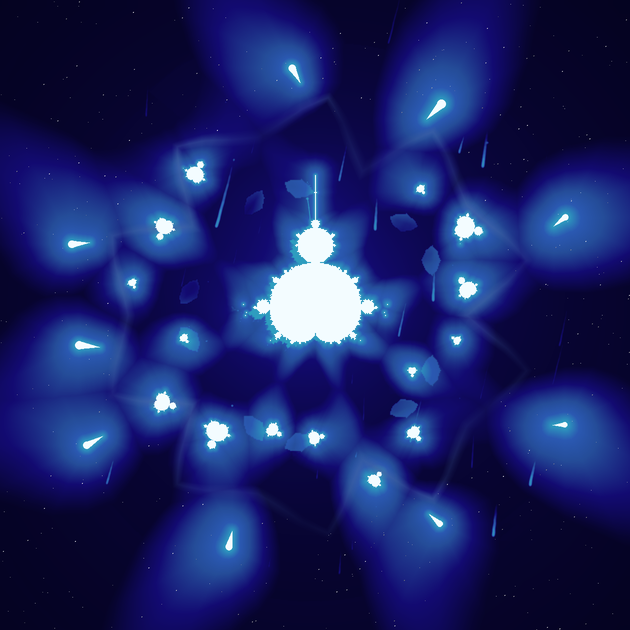
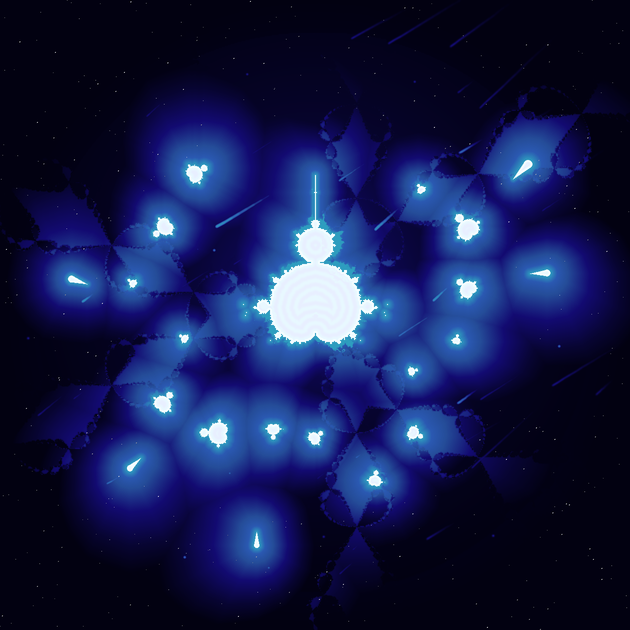
Fractal fill inside the bodies
Mother and babies usually carry a very dark (or very bright) contour-band or
texture pattern inside, kept within the decoder's body range and behind a
flat rim at every edge. Decoder fills enclosed holes in the body mask and
adds back the sub-pixel threshold shrink before classifying size.

diff --git a/hidden_in_plain_sight/encoder.py b/hidden_in_plain_sight/encoder.py
@@ -35,19 +35,19 @@ THEMES = {
     "mandelbrot": dict(polarity="dark", bg=(0, 0, 93), body=(0, 0, 0), filament=(255, 255, 255), stars=False,
                        ramp=[(0.00, (255, 255, 255)), (0.06, (210, 248, 255)), (0.18, (90, 180, 255)),
                              (0.40, (25, 50, 225)), (0.75, (0, 0, 150)), (1.30, (0, 0, 93))],
-                       decor="minibrot", rays=0.0, clouds=0.0, motion="orbit", streaks=0, turbulence=0.0),
+                       decor="minibrot", rays=0.0, clouds=0.0, motion="orbit", streaks=0, turbulence=0.0, fill=None),
     "space": dict(polarity="bright", bg=(0, 0, 0), body=(255, 228, 236), filament=(120, 170, 255), stars=True,
                   ramp=[(0.00, (255, 120, 170)), (0.10, (150, 120, 230)), (0.25, (90, 130, 255)),
                         (0.55, (30, 60, 190)), (0.95, (8, 14, 60)), (1.40, (0, 0, 0))],
-                  decor="minibrot", rays=0.0, clouds=0.0, motion="orbit", streaks=0, turbulence=0.0),
+                  decor="minibrot", rays=0.0, clouds=0.0, motion="orbit", streaks=0, turbulence=0.0, fill=None),
     "ember": dict(polarity="dark", bg=(90, 12, 0), body=(0, 0, 0), filament=(255, 250, 200), stars=False,
                   ramp=[(0.00, (255, 255, 240)), (0.06, (255, 240, 120)), (0.18, (255, 150, 0)),
                         (0.40, (215, 40, 0)), (0.75, (140, 20, 0)), (1.30, (90, 12, 0))],
-                  decor="minibrot", rays=0.0, clouds=0.0, motion="orbit", streaks=0, turbulence=0.0),
+                  decor="minibrot", rays=0.0, clouds=0.0, motion="orbit", streaks=0, turbulence=0.0, fill=None),
     "emerald": dict(polarity="dark", bg=(0, 85, 45), body=(0, 0, 0), filament=(240, 255, 245), stars=False,
                     ramp=[(0.00, (255, 255, 255)), (0.06, (200, 255, 220)), (0.18, (60, 230, 140)),
                           (0.40, (0, 160, 90)), (0.75, (0, 110, 60)), (1.30, (0, 85, 45))],
-                    decor="minibrot", rays=0.0, clouds=0.0, motion="orbit", streaks=0, turbulence=0.0),
+                    decor="minibrot", rays=0.0, clouds=0.0, motion="orbit", streaks=0, turbulence=0.0, fill=None),
 }
 BG = THEMES["mandelbrot"]["bg"]
 
@@ -137,7 +137,29 @@ def make_style(rng):
                 clouds=rng.choice([0.0, rng.uniform(0.3, 0.7)]),
                 motion=rng.choice(["orbit", "orbit", "vortex", "radial", "wind"]),
                 streaks=rng.choice([10, 25, 50, 90]),
-                turbulence=rng.choice([0.0, 0.06, 0.12]))
+                turbulence=rng.choice([0.0, 0.06, 0.12]),
+                fill=_fill_style(rng, polarity, hA, hB))
+
+
+def _fill_style(rng, polarity, hA, hB):
+    """Fractal pattern INSIDE the bodies: two colours to blend between, and a band period.
+    Dark bodies stay at max channel <= 30, bright bodies at luma >= 234, so the decoder's
+    body mask (dark < 60, bright luma > 200) is untouched even after JPEG."""
+    if rng.random() < 0.2:
+        return None
+    if polarity == "dark":
+        cA = _hsv(hA, rng.uniform(0.6, 1.0), 0.12)
+        cB = _hsv(hB, rng.uniform(0.6, 1.0), 0.03)
+        cA = tuple(min(v, 30) for v in cA)
+        cB = tuple(min(v, 30) for v in cB)
+    else:
+        cA = _hsv(hA, 0.09, 1.0)
+        cB = _hsv(hB, 0.09, 1.0)
+        while _luma(cA) < 234:
+            cA = tuple(min(255, v + 4) for v in cA)
+        while _luma(cB) < 234:
+            cB = tuple(min(255, v + 4) for v in cB)
+    return dict(cA=cA, cB=cB, period=rng.uniform(0.05, 0.14), mode=rng.choice(["bands", "bands", "texture"]))
 
 
 def style_for(words, theme=DEFAULT_THEME):
@@ -560,6 +582,20 @@ def render(words, wordlist, U=DEFAULT_U, ss=SUPERSAMPLE, theme=DEFAULT_THEME):
                     img[y + 1, x] = img[y, x + 1] = np.maximum(img[y, x], (b * 0.6,) * 3)
 
     img[mask] = st["body"]
+    fill = st.get("fill")
+    if fill:
+        # fractal inside the fractal: contour bands following each body's own shape,
+        # perturbed by the texture, blended between two in-range colours
+        inner = cv2.distanceTransform(mask.astype(np.uint8), cv2.DIST_L2, 5) / Us
+        if fill["mode"] == "bands":
+            P = 0.5 + 0.5 * np.sin(2 * math.pi * inner / fill["period"] + 4.0 * T)
+        else:
+            P = T
+        # keep a flat rim of pure body colour along every edge: the pattern lives strictly
+        # inside, so JPEG ringing at the boundary behaves exactly as for a flat body
+        deep = mask & (inner > 0.035)
+        P = P[deep][..., None]
+        img[deep] = np.array(fill["cA"], np.float32) * (1 - P) + np.array(fill["cB"], np.float32) * P
     out = Image.fromarray(np.clip(img, 0, 255).astype(np.uint8))
     if ss > 1:
         out = out.resize((size // ss, size // ss), Image.LANCZOS)

diff --git a/hidden_in_plain_sight/encoder_app/encoder.py b/hidden_in_plain_sight/encoder_app/encoder.py
@@ -35,19 +35,19 @@ THEMES = {
     "mandelbrot": dict(polarity="dark", bg=(0, 0, 93), body=(0, 0, 0), filament=(255, 255, 255), stars=False,
                        ramp=[(0.00, (255, 255, 255)), (0.06, (210, 248, 255)), (0.18, (90, 180, 255)),
                              (0.40, (25, 50, 225)), (0.75, (0, 0, 150)), (1.30, (0, 0, 93))],
-                       decor="minibrot", rays=0.0, clouds=0.0, motion="orbit", streaks=0, turbulence=0.0),
+                       decor="minibrot", rays=0.0, clouds=0.0, motion="orbit", streaks=0, turbulence=0.0, fill=None),
     "space": dict(polarity="bright", bg=(0, 0, 0), body=(255, 228, 236), filament=(120, 170, 255), stars=True,
                   ramp=[(0.00, (255, 120, 170)), (0.10, (150, 120, 230)), (0.25, (90, 130, 255)),
                         (0.55, (30, 60, 190)), (0.95, (8, 14, 60)), (1.40, (0, 0, 0))],
-                  decor="minibrot", rays=0.0, clouds=0.0, motion="orbit", streaks=0, turbulence=0.0),
+                  decor="minibrot", rays=0.0, clouds=0.0, motion="orbit", streaks=0, turbulence=0.0, fill=None),
     "ember": dict(polarity="dark", bg=(90, 12, 0), body=(0, 0, 0), filament=(255, 250, 200), stars=False,
                   ramp=[(0.00, (255, 255, 240)), (0.06, (255, 240, 120)), (0.18, (255, 150, 0)),
                         (0.40, (215, 40, 0)), (0.75, (140, 20, 0)), (1.30, (90, 12, 0))],
-                  decor="minibrot", rays=0.0, clouds=0.0, motion="orbit", streaks=0, turbulence=0.0),
+                  decor="minibrot", rays=0.0, clouds=0.0, motion="orbit", streaks=0, turbulence=0.0, fill=None),
     "emerald": dict(polarity="dark", bg=(0, 85, 45), body=(0, 0, 0), filament=(240, 255, 245), stars=False,
                     ramp=[(0.00, (255, 255, 255)), (0.06, (200, 255, 220)), (0.18, (60, 230, 140)),
                           (0.40, (0, 160, 90)), (0.75, (0, 110, 60)), (1.30, (0, 85, 45))],
-                    decor="minibrot", rays=0.0, clouds=0.0, motion="orbit", streaks=0, turbulence=0.0),
+                    decor="minibrot", rays=0.0, clouds=0.0, motion="orbit", streaks=0, turbulence=0.0, fill=None),
 }
 BG = THEMES["mandelbrot"]["bg"]
 
@@ -137,7 +137,29 @@ def make_style(rng):
                 clouds=rng.choice([0.0, rng.uniform(0.3, 0.7)]),
                 motion=rng.choice(["orbit", "orbit", "vortex", "radial", "wind"]),
                 streaks=rng.choice([10, 25, 50, 90]),
-                turbulence=rng.choice([0.0, 0.06, 0.12]))
+                turbulence=rng.choice([0.0, 0.06, 0.12]),
+                fill=_fill_style(rng, polarity, hA, hB))
+
+
+def _fill_style(rng, polarity, hA, hB):
+    """Fractal pattern INSIDE the bodies: two colours to blend between, and a band period.
+    Dark bodies stay at max channel <= 30, bright bodies at luma >= 234, so the decoder's
+    body mask (dark < 60, bright luma > 200) is untouched even after JPEG."""
+    if rng.random() < 0.2:
+        return None
+    if polarity == "dark":
+        cA = _hsv(hA, rng.uniform(0.6, 1.0), 0.12)
+        cB = _hsv(hB, rng.uniform(0.6, 1.0), 0.03)
+        cA = tuple(min(v, 30) for v in cA)
+        cB = tuple(min(v, 30) for v in cB)
+    else:
+        cA = _hsv(hA, 0.09, 1.0)
+        cB = _hsv(hB, 0.09, 1.0)
+        while _luma(cA) < 234:
+            cA = tuple(min(255, v + 4) for v in cA)
+        while _luma(cB) < 234:
+            cB = tuple(min(255, v + 4) for v in cB)
+    return dict(cA=cA, cB=cB, period=rng.uniform(0.05, 0.14), mode=rng.choice(["bands", "bands", "texture"]))
 
 
 def style_for(words, theme=DEFAULT_THEME):
@@ -560,6 +582,20 @@ def render(words, wordlist, U=DEFAULT_U, ss=SUPERSAMPLE, theme=DEFAULT_THEME):
                     img[y + 1, x] = img[y, x + 1] = np.maximum(img[y, x], (b * 0.6,) * 3)
 
     img[mask] = st["body"]
+    fill = st.get("fill")
+    if fill:
+        # fractal inside the fractal: contour bands following each body's own shape,
+        # perturbed by the texture, blended between two in-range colours
+        inner = cv2.distanceTransform(mask.astype(np.uint8), cv2.DIST_L2, 5) / Us
+        if fill["mode"] == "bands":
+            P = 0.5 + 0.5 * np.sin(2 * math.pi * inner / fill["period"] + 4.0 * T)
+        else:
+            P = T
+        # keep a flat rim of pure body colour along every edge: the pattern lives strictly
+        # inside, so JPEG ringing at the boundary behaves exactly as for a flat body
+        deep = mask & (inner > 0.035)
+        P = P[deep][..., None]
+        img[deep] = np.array(fill["cA"], np.float32) * (1 - P) + np.array(fill["cB"], np.float32) * P
     out = Image.fromarray(np.clip(img, 0, 255).astype(np.uint8))
     if ss > 1:
         out = out.resize((size // ss, size // ss), Image.LANCZOS)

diff --git a/hidden_in_plain_sight/decoder.py b/hidden_in_plain_sight/decoder.py
@@ -19,6 +19,7 @@ BRIGHT_MIN_LUMA = 200       # ... or "bright" if luminance > this (theme decides
                             # Luminance (not min channel) for bright bodies: JPEG keeps luma at full resolution.
 MIN_BLOB_FRACTION = 0.0005
 SLOT_TOLERANCE_DEG = 8.0    # how far a bulb may sit from its slot direction
+EDGE_ADDBACK_PX = 0.35      # anti-aliasing/JPEG shrink a thresholded body by about this much
 
 
 class DecodeError(Exception):
@@ -36,8 +37,14 @@ def likeness(bgr, polarity):
 def body_mask(bgr, polarity):
     thr = DARK_MAX_CHANNEL if polarity == "dark" else 255 - BRIGHT_MIN_LUMA
     m = (likeness(bgr, polarity) < thr).astype(np.uint8)
-    # fill JPEG / resampling pinholes inside bodies
-    return cv2.morphologyEx(m, cv2.MORPH_CLOSE, np.ones((3, 3), np.uint8))
+    # close JPEG / resampling pinholes, then fill every enclosed hole: bodies may carry
+    # a pattern inside, and JPEG can lift a few of those pixels over the threshold
+    m = cv2.morphologyEx(m, cv2.MORPH_CLOSE, np.ones((3, 3), np.uint8))
+    inv = cv2.copyMakeBorder((1 - m).copy(), 1, 1, 1, 1, cv2.BORDER_CONSTANT, value=1)
+    cv2.floodFill(inv, None, (0, 0), 2)              # mark background reachable from the border
+    holes = (inv[1:-1, 1:-1] == 1)                   # non-body pixels not reachable = holes
+    m[holes] = 1
+    return m
 
 
 # ---------------------------------------------------------------- marker
@@ -183,7 +190,7 @@ def read_bulbs(bgr, polarity, cx, cy, R, rot, marker_label, stats, cents):
             continue
         area, x, y, dist = best
         r_px = math.sqrt(area / math.pi)          # area-equivalent radius (shape-independent)
-        r = r_px / R
+        r = (r_px + EDGE_ADDBACK_PX) / R          # thresholding sits slightly inside the true edge
         si = int(np.argmin([abs(r - s) for s in layout.SIZES]))
         di = int(np.argmin([abs(dist - s) for s in layout.DISTS]))
         slots.append(dict(symbol=codec.glyph_to_symbol(si, di), size=si, dist=di, ok=True,

diff --git a/hidden_in_plain_sight/decoder_app/decoder.py b/hidden_in_plain_sight/decoder_app/decoder.py
@@ -19,6 +19,7 @@ BRIGHT_MIN_LUMA = 200       # ... or "bright" if luminance > this (theme decides
                             # Luminance (not min channel) for bright bodies: JPEG keeps luma at full resolution.
 MIN_BLOB_FRACTION = 0.0005
 SLOT_TOLERANCE_DEG = 8.0    # how far a bulb may sit from its slot direction
+EDGE_ADDBACK_PX = 0.35      # anti-aliasing/JPEG shrink a thresholded body by about this much
 
 
 class DecodeError(Exception):
@@ -36,8 +37,14 @@ def likeness(bgr, polarity):
 def body_mask(bgr, polarity):
     thr = DARK_MAX_CHANNEL if polarity == "dark" else 255 - BRIGHT_MIN_LUMA
     m = (likeness(bgr, polarity) < thr).astype(np.uint8)
-    # fill JPEG / resampling pinholes inside bodies
-    return cv2.morphologyEx(m, cv2.MORPH_CLOSE, np.ones((3, 3), np.uint8))
+    # close JPEG / resampling pinholes, then fill every enclosed hole: bodies may carry
+    # a pattern inside, and JPEG can lift a few of those pixels over the threshold
+    m = cv2.morphologyEx(m, cv2.MORPH_CLOSE, np.ones((3, 3), np.uint8))
+    inv = cv2.copyMakeBorder((1 - m).copy(), 1, 1, 1, 1, cv2.BORDER_CONSTANT, value=1)
+    cv2.floodFill(inv, None, (0, 0), 2)              # mark background reachable from the border
+    holes = (inv[1:-1, 1:-1] == 1)                   # non-body pixels not reachable = holes
+    m[holes] = 1
+    return m
 
 
 # ---------------------------------------------------------------- marker
@@ -183,7 +190,7 @@ def read_bulbs(bgr, polarity, cx, cy, R, rot, marker_label, stats, cents):
             continue
         area, x, y, dist = best
         r_px = math.sqrt(area / math.pi)          # area-equivalent radius (shape-independent)
-        r = r_px / R
+        r = (r_px + EDGE_ADDBACK_PX) / R          # thresholding sits slightly inside the true edge
         si = int(np.argmin([abs(r - s) for s in layout.SIZES]))
         di = int(np.argmin([abs(dist - s) for s in layout.DISTS]))
         slots.append(dict(symbol=codec.glyph_to_symbol(si, di), size=si, dist=di, ok=True,

diff --git a/hidden_in_plain_sight/METHOD.md b/hidden_in_plain_sight/METHOD.md
@@ -31,6 +31,8 @@ everything else in the picture (colours, fractal texture, motion) is seeded by t
      **cloud** modulation of the glow, and how far the glow reaches;
    - the **decoration style**: mini-brots, spirals, orbit rings, star polygons or comets, and
      sometimes a star field or a large orbit ring;
+   - the **fill**: the mother and the babies are usually not flat; they carry a very dark
+     (or very bright) contour-band pattern inside, kept within the decoder's body range;
    - the **motion**: the satellites trail comet-tail motion blur along an orbit, a vortex, an
      outward burst or a wind direction, with gradient light streaks and sparks aligned to it,
      and the Mandelbrot fringe can be domain-warped so it flickers like electricity.
